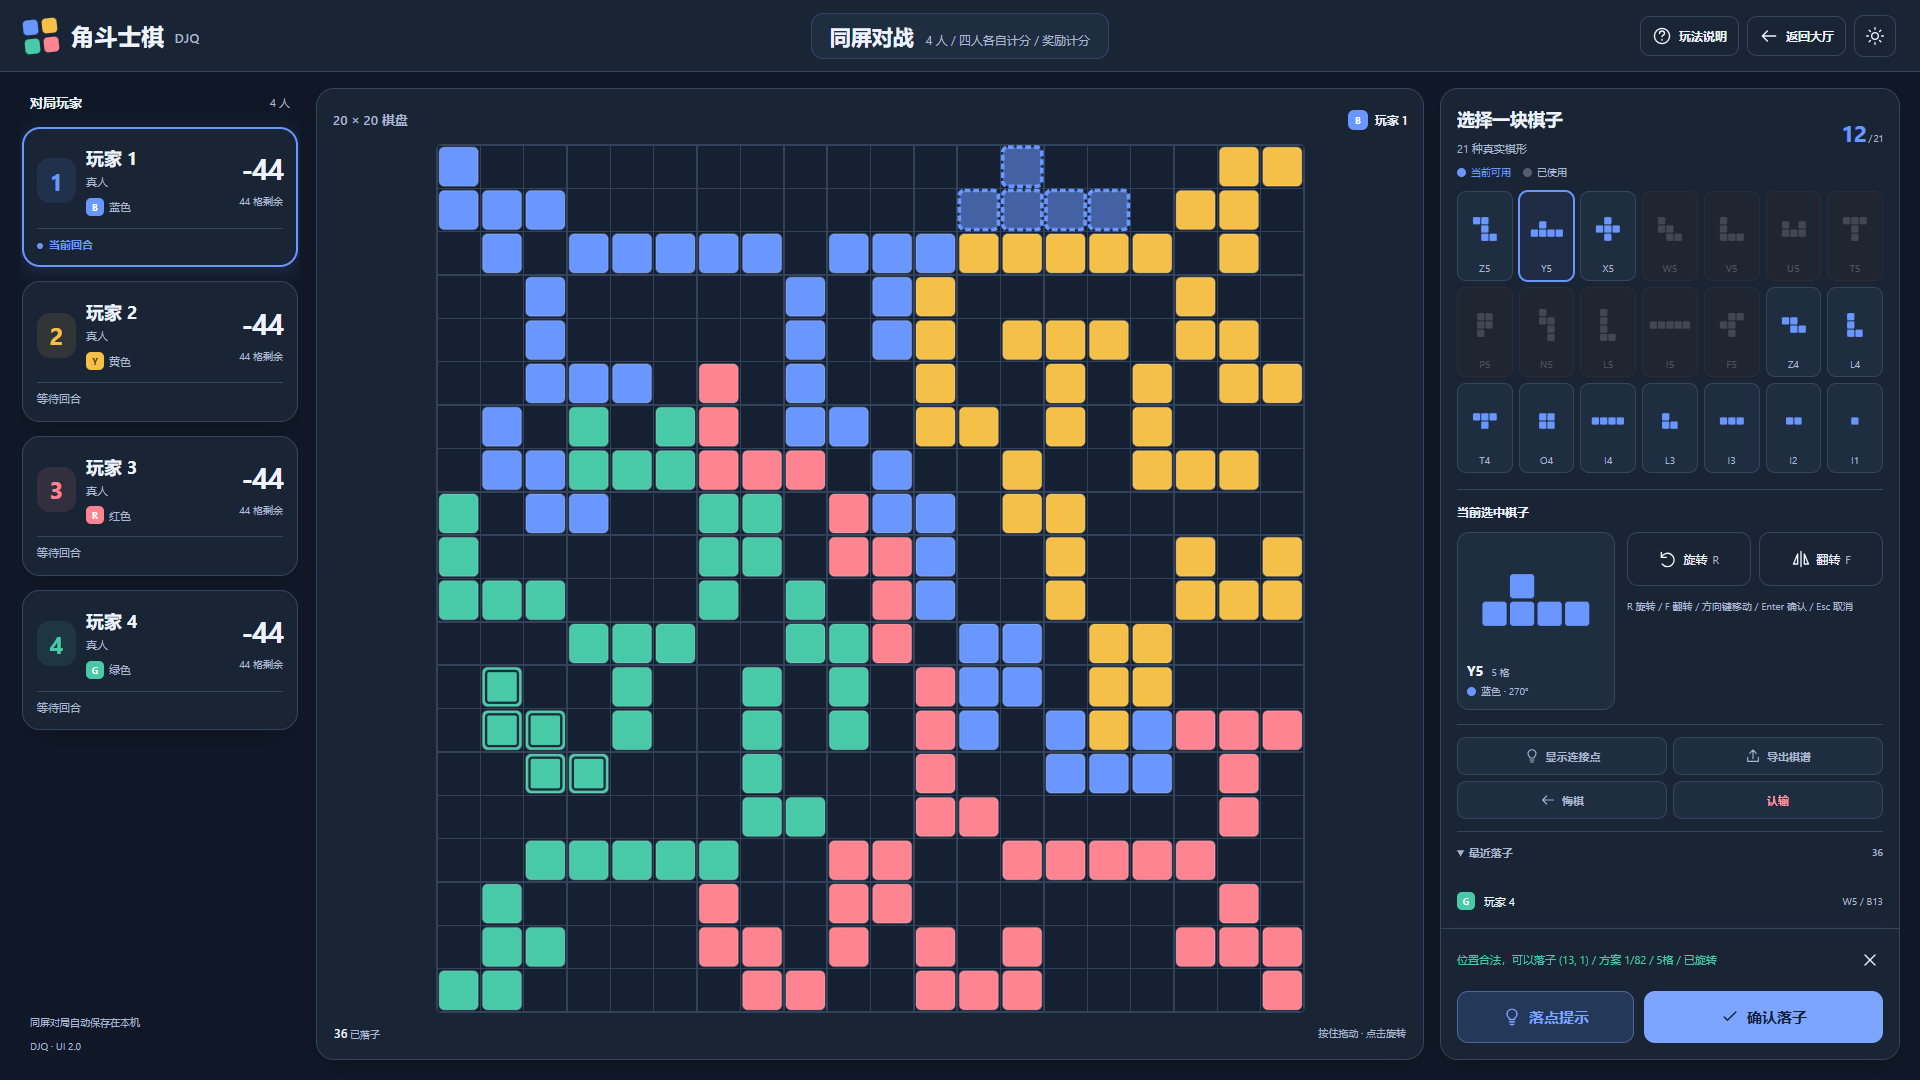
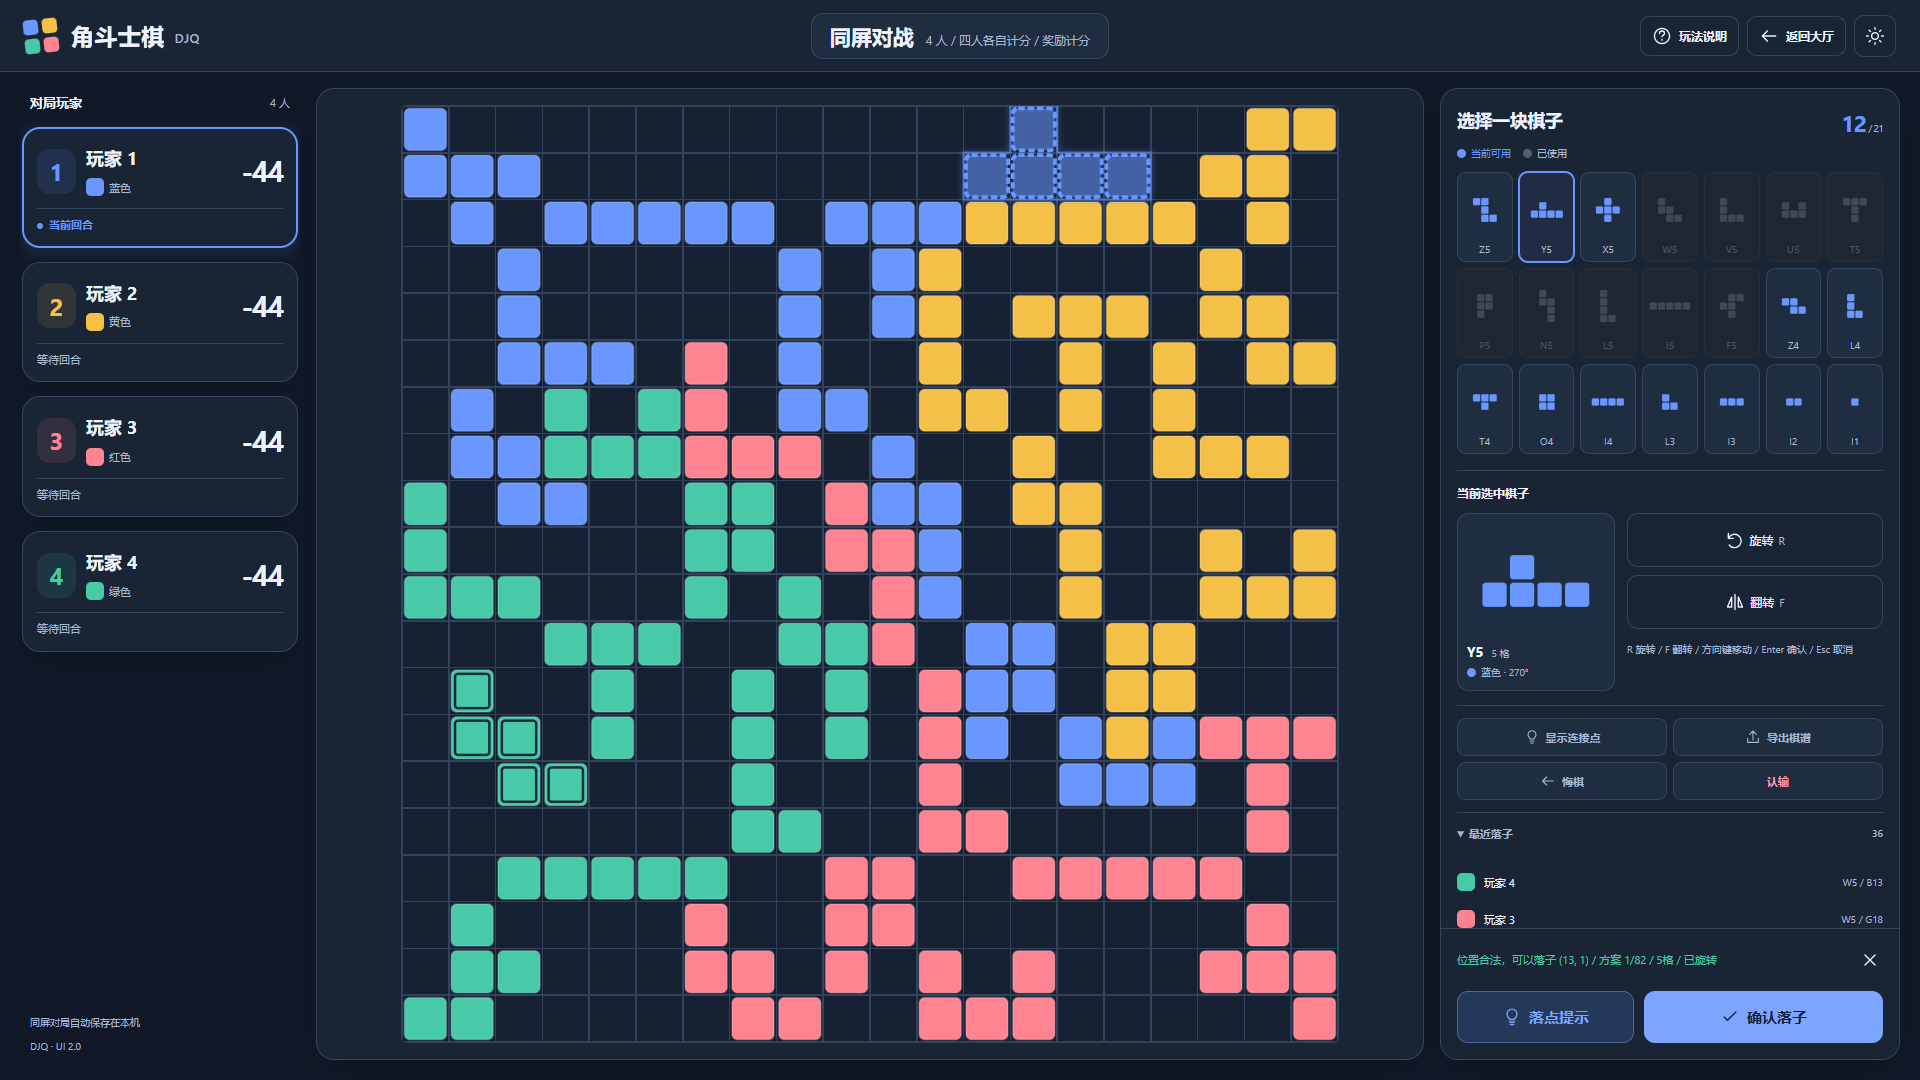
feat: simplify match labels and glow pending piece outlines

diff --git a/public/game.css b/public/game.css
@@ -49,11 +49,10 @@ body[data-screen="game"] #app {
 .game-shell-v2 .player-ident {gap:10px; min-width:0}
 .game-shell-v2 .player-avatar {width:39px; height:45px; border-radius:13px; color:var(--color); background:color-mix(in srgb,var(--color) 11%,var(--surface)); font-size:24px; font-weight:700}
 .game-shell-v2 .player-ident strong {font-size:15px; line-height:1.4; font-weight:700; overflow-wrap:anywhere; color:var(--ink)}
-.player-type {display:block; color:var(--muted); font-size:10px; line-height:1.6; margin-top:2px}
+.player-affiliation {display:block; color:var(--muted); font-size:10px; line-height:1.6; margin-top:2px}
 .game-shell-v2 .player-colors {display:flex; gap:8px; flex-wrap:wrap; margin-top:7px}
 .game-shell-v2 .player-colors>span {display:flex; align-items:center; gap:5px; color:var(--muted); font-size:10px}
 .game-shell-v2 .player-score strong {font-size:25px; line-height:1.1; font-weight:750; color:var(--ink)}
-.game-shell-v2 .player-score span {font-size:10px; white-space:nowrap; margin-top:9px}
 .player-state {grid-column:1/-1; font-size:10px; line-height:1.5; color:var(--muted); padding-top:8px; border-top:1px solid var(--line)}
 .player-state.is-current {color:var(--color); font-weight:650}
 .player-state.is-current::before {content:''; display:inline-block; width:6px; height:6px; background:var(--color); border-radius:50%; margin-right:6px}
@@ -64,22 +63,28 @@ body[data-screen="game"] #app {
 .game-shell-v2 .neutral-bar b {font-size:11px}
 .table-status {margin-top:auto; display:flex; flex-direction:column; gap:8px; padding:10px 8px 0; font-size:10px; color:var(--muted); line-height:1.6}
 .game-shell-v2 .board-section {min-width:0; min-height:0; display:flex; flex-direction:column; gap:10px; padding:16px; border:1px solid var(--line); border-radius:var(--match-radius); background:var(--surface); box-shadow:var(--shadow)}
-.board-heading {display:flex; align-items:center; justify-content:space-between; gap:10px; flex-shrink:0}
-.board-heading h2 {font-size:13px; font-weight:600; white-space:nowrap; color:var(--muted)}
-.game-shell-v2 .turn-banner {padding:0; margin:0; min-height:29px; font-size:12px; gap:8px; min-width:0}
-.game-shell-v2 .turn-banner>div {gap:7px}
-.game-shell-v2 .turn-banner>div>span:last-child {white-space:nowrap; overflow:hidden; text-overflow:ellipsis; max-width:210px}
-.game-shell-v2 .turn-banner .color-mark {width:20px; height:20px; font-size:9px; border-radius:6px}
 .game-shell-v2 .countdown {font-size:12px; padding:4px 7px; min-width:42px}
 .game-shell-v2 .countdown.urgent {color:var(--danger); background:color-mix(in srgb,var(--danger) 12%,var(--surface))}
 .game-shell-v2 .board-frame {flex:1; min-height:0; min-width:0; display:flex; align-items:center; justify-content:center; padding:0; border:0; border-radius:8px; box-shadow:none; background:transparent; overflow:hidden}
 .game-shell-v2 .board-svg#board {display:block; max-width:100%; max-height:100%; flex-shrink:0; border:1px solid var(--grid); border-radius:6px; cursor:grab; touch-action:none}
 .game-shell-v2 .board-svg#board:active {cursor:grabbing}
-.game-shell-v2 .board-meta {margin:0; padding:0 1px; min-height:20px; font-size:10px; flex-shrink:0}
-.game-shell-v2 .board-meta strong {font-size:12px}
-.game-shell-v2 .board-meta>span:last-child {text-align:right}
 .game-shell-v2 .ghost {fill-opacity:.55; stroke-width:2.5}
 .game-shell-v2 .ghost.invalid {fill:var(--red); stroke:var(--red)}
+.game-shell-v2 .preview-outline {
+  fill:none; stroke:var(--color); stroke-width:2.5; stroke-linejoin:round; stroke-linecap:round;
+  vector-effect:non-scaling-stroke; pointer-events:none;
+  filter:drop-shadow(0 0 3px var(--color)); animation:preview-breathe 2.2s ease-in-out infinite;
+}
+@keyframes preview-breathe {
+  0%,100% {stroke-opacity:.6; stroke-width:2; filter:drop-shadow(0 0 2px var(--color))}
+  50% {stroke-opacity:1; stroke-width:3.5; filter:drop-shadow(0 0 7px var(--color))}
+}
+@media (prefers-reduced-motion:reduce) {
+  .game-shell-v2 .preview-outline {animation:none; stroke-opacity:1; filter:drop-shadow(0 0 3px var(--color))}
+}
+.visually-hidden {position:absolute; width:1px; height:1px; margin:-1px; padding:0; overflow:hidden; clip-path:inset(50%); white-space:nowrap; border:0}
+.match-header .countdown {display:inline-block; vertical-align:middle; margin-left:8px; font-size:11px; min-width:38px; padding:4px 6px}
+.match-header .countdown.urgent {color:var(--danger); background:color-mix(in srgb,var(--danger) 12%,var(--surface))}
 .game-shell-v2 .last-tile {stroke:var(--surface); opacity:.95}
 .game-shell-v2 .result-banner {margin:0; padding:12px; border-radius:12px; gap:10px; flex-shrink:0; flex-wrap:wrap}
 .game-shell-v2 .result-banner h2 {font-size:15px; line-height:1.4}
@@ -113,7 +118,7 @@ body[data-screen="game"] #app {
 .selected-piece-meta strong {font-size:14px; display:block; line-height:1.5; color:var(--ink)}
 .selected-piece-meta strong small {font-size:10px; font-weight:400; color:var(--muted); margin-left:4px}
 .selected-piece-meta>span {font-size:10px; color:var(--muted); display:flex; gap:5px; align-items:center; line-height:1.5; flex-wrap:wrap; margin-top:3px}
-.transform-tools {display:grid; grid-template-columns:1fr 1fr; align-content:start; gap:8px}
+.transform-tools {display:grid; grid-template-columns:minmax(0,1fr); align-content:start; gap:8px}
 .game-shell-v2 .transform-tools .tool-button {display:flex; flex-wrap:wrap; min-height:54px; font-size:12px; gap:5px; border-radius:11px; background:var(--surface); padding:8px 5px; border-color:var(--line)}
 .game-shell-v2 .transform-tools .icon {width:20px; height:20px}
 .game-shell-v2 .transform-tools kbd {font:11px "Segoe UI",sans-serif; color:var(--muted)}
@@ -166,9 +171,7 @@ body[data-screen="game"] #app {
   .game-shell-v2 .player-ident {gap:7px}
   .game-shell-v2 .player-ident strong {font-size:12px}
   .game-shell-v2 .player-score strong {font-size:22px}
-  .game-shell-v2 .player-score span {font-size:9px}
   .game-shell-v2 .board-section {padding:12px; gap:8px}
-  .game-shell-v2 .turn-banner>div>span:last-child {max-width:130px}
   .game-shell-v2 .control-scroll {padding:14px 12px 8px}
   .game-shell-v2 .piece-tray {grid-template-columns:repeat(5,minmax(0,1fr)); gap:5px}
   .game-shell-v2 .piece {height:60px}
@@ -204,25 +207,19 @@ body[data-screen="game"] #app {
   .game-shell-v2 .player-ident {gap:6px}
   .game-shell-v2 .player-avatar {width:23px; height:29px; font-size:17px; border-radius:7px}
   .game-shell-v2 .player-ident strong {font-size:11px}
-  .game-shell-v2 .player-type {font-size:9px; margin-top:0}
+  .game-shell-v2 .player-affiliation {font-size:9px; margin-top:0}
   .game-shell-v2 .player-colors {gap:5px; margin-top:4px}
   .game-shell-v2 .player-colors>span {font-size:9px; gap:3px}
   .game-shell-v2 .player-colors .color-mark {width:14px; height:14px; font-size:8px; border-radius:4px}
   .game-shell-v2 .player-score strong {font-size:21px}
-  .game-shell-v2 .player-score span {font-size:8px; margin-top:6px}
   .game-shell-v2 .player-state {font-size:9px; padding-top:5px}
   .game-shell-v2 .team-cards {grid-template-columns:1fr 1fr; gap:8px}
   .game-shell-v2 .team-cards article {font-size:9px; padding:9px; line-height:1.5}
   .game-shell-v2 .neutral-bar {font-size:10px; padding:9px}
   .game-shell-v2 .neutral-bar>span:not(.color-mark) {flex-basis:auto; flex:1}
   .game-shell-v2 .neutral-bar b {font-size:10px}
-  .game-shell-v2 .board-section {height:calc(100vw + 36px); padding:10px; border-radius:14px; gap:8px}
-  .game-shell-v2 .board-section:has(.result-banner) {height:calc(100vw + 150px)}
-  .board-heading h2 {font-size:11px}
-  .game-shell-v2 .turn-banner {font-size:11px; min-height:24px}
-  .game-shell-v2 .turn-banner>div>span:last-child {max-width:140px}
-  .game-shell-v2 .board-meta {min-height:16px; font-size:9px}
-  .game-shell-v2 .board-meta>span:last-child {max-width:65%}
+  .game-shell-v2 .board-section {height:calc(100vw - 24px); padding:10px; border-radius:14px; gap:8px}
+  .game-shell-v2 .board-section:has(.result-banner) {height:calc(100vw + 90px)}
   .game-shell-v2 .control-panel {min-height:0; overflow:visible; border-radius:14px}
   .game-shell-v2 .control-scroll {padding:16px; overflow:visible}
   .game-shell-v2 .piece-tray {grid-template-columns:repeat(7,minmax(0,1fr)); gap:6px}
@@ -268,12 +265,11 @@ body[data-screen="game"] #app {
   .game-shell-v2 .player-ident {gap:5px}
   .game-shell-v2 .player-avatar {display:none}
   .game-shell-v2 .player-ident strong {font-size:11px}
-  .game-shell-v2 .player-type {font-size:8px}
+  .game-shell-v2 .player-affiliation {font-size:8px}
   .game-shell-v2 .player-colors {gap:5px; margin-top:4px}
   .game-shell-v2 .player-colors>span {font-size:9px}
   .game-shell-v2 .player-colors .color-mark {width:13px; height:13px; font-size:8px; border-radius:3px}
   .game-shell-v2 .player-score strong {font-size:19px}
-  .game-shell-v2 .player-score span {font-size:8px; margin-top:4px}
   .game-shell-v2 .player-state {font-size:8px; padding-top:3px}
   .game-shell-v2 .team-cards {grid-template-columns:1fr; gap:5px}
   .game-shell-v2 .team-cards article {padding:6px; font-size:9px}
@@ -281,10 +277,6 @@ body[data-screen="game"] #app {
   .game-shell-v2 .neutral-bar>span:not(.color-mark) {flex-basis:100%; max-width:none}
   .game-shell-v2 .neutral-bar b {font-size:9px}
   .game-shell-v2 .board-section,.game-shell-v2 .board-section:has(.result-banner) {height:100%; min-height:0; padding:8px; gap:6px; border-radius:12px}
-  .game-shell-v2 .board-heading h2 {font-size:11px}
-  .game-shell-v2 .board-heading:not(:has(#countdown)) {display:none}
-  .game-shell-v2 .turn-banner {min-height:22px; font-size:10px}
-  .game-shell-v2 .board-meta {display:none}
   .game-shell-v2 .result-banner {padding:7px; gap:6px}
   .game-shell-v2 .result-banner h2 {font-size:12px}
   .game-shell-v2 .result-banner .eyebrow,.game-shell-v2 .result-icon {display:none}
@@ -318,7 +310,7 @@ body[data-screen="game"] #app {
 }
 @media (min-width:1400px) and (min-height:850px) {
   .game-shell-v2 .player-ident strong {font-size:18px}
-  .game-shell-v2 .player-type,.game-shell-v2 .player-state {font-size:11px}
+  .game-shell-v2 .player-affiliation,.game-shell-v2 .player-state {font-size:11px}
   .game-shell-v2 .player-score strong {font-size:29px}
   .game-shell-v2 .player-colors>span {font-size:11px}
   .game-shell-v2 .piece {height:90px}

diff --git a/docs/UI_V2.md b/docs/UI_V2.md
@@ -9,25 +9,28 @@
 ## 实施与结果
 
 1. 将原来的顶部玩家卡片与两栏布局改成左侧玩家、中间棋盘、右侧选子/操作三栏；顶部集中显示真实玩法、人数、计分方式和联机房间信息。
-2. 左侧卡片从规则引擎计算得分与剩余格数，显示真人/机器人、颜色、当前回合、思考、离线、认输与结束状态；保留双色合计、公共绿和组队信息。
+2. 左侧卡片从规则引擎计算并显示真实得分，保留颜色、当前回合、思考、离线、认输、结束、双色合计、公共绿和组队信息；按后续反馈移除身份副标识与剩余格数文案。
 3. 右侧保留21种真实 SVG 棋形。新增从同一选择状态生成的放大预览，实时同步形状、面积、颜色、旋转和镜像；单格形状也有放大显示。
 4. 主按钮始终保留确认落子；落点提示独立，标注计算状态，网络等待时禁用确认。辅助操作和记录在右栏内滚动/折叠，避免挤压棋盘。
 5. 棋盘容器由 CSS 分配可用空间，再由 ResizeObserver 取实际宽高的较小值设置正方形 SVG；600×600 viewBox 和逻辑坐标不变。
 6. 短横屏（宽≥600、视口高≤560且横向）使用两栏状态/棋盘与操作抽屉，底部固定关键操作。抽屉开启时背景 inert、焦点限制在抽屉内，Esc 返回选子按钮；选择或取得建议后可直接回棋盘。手机竖屏保留自然滚动与固定操作栏。
 7. 页面重绘恢复已有控制焦点；同局面SSE更新继续等到拖动结束再重绘。窗口旋转关闭旧抽屉，重新适配棋盘。
 
+2026-10-17 界面精简：移除棋盘四角的标题、行动玩家、落子数和操作提示，以及颜色块字母、身份副标识、剩余格数和棋形说明副标题。联机计时移至顶部；待确认棋子增加同色外轮廓呼吸光效（不照亮内部接缝），确认后消失，减少动态效果偏好下使用静态光效。右侧旋转/翻转改为上下排列。
+
 ## 文件清单
 
 | 文件 | 用途 |
 | --- | --- |
 | `public/app.mjs` | 顶部、玩家卡片、三栏、操作区、抽屉、焦点和选中预览接线；复用既有游戏动作 |
-| `public/game-ui.mjs`（新增） | 共享棋形SVG展示、放大选择预览与棋盘宽高观察 |
+| `public/game-ui.mjs`（新增） | 共享棋形SVG展示、放大选择预览、外轮廓生成与棋盘宽高观察 |
 | `public/game.css`（新增） | 仅作用于对局/复盘的布局、浅深色变量和响应式规则 |
 | `public/index.html` | 加载独立对局样式 |
 | `public/i18n.mjs` | 玩家状态、选择预览和抽屉中文文案 |
 | `server/index.mjs` | 仅注册两个新增公开资源；未改HTTP/SSE、鉴权和房间逻辑 |
 | `package.json` | 将新增布局套件纳入 `test:browser` |
 | `tests/browser_layout.mjs`（新增） | 尺寸/模式/预览/键盘/导出/抽屉/旋转/SSE拖动回归与截图 |
+| `tests/game-ui.test.mjs`（新增） | 外轮廓不包含内部接缝的回归 |
 | `docs/UI_V2_VERIFICATION.json`（新增） | 本轮实际验证记录 |
 | `docs/screenshots/ui-v2/`（新增） | 浅色、深色、手机横屏的真实浏览器截图 |
 | `README.md`、`docs/TESTING.md`、本文 | 功能入口、验证方法与交付说明 |
